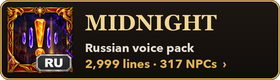
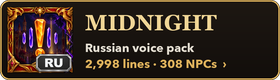
Русский пакет: актуальные цифры (2998 реплик, 308 NPC, ~18 ч)

Changed region(s): [[0.6, 0.725, 0.6571, 0.85], [0.4, 0.75, 0.4286, 0.85]]

diff --git a/curseforge/description-pack-ruRU-Midnight.md b/curseforge/description-pack-ruRU-Midnight.md
@@ -1,6 +1,6 @@
 # Chorus: Russian voice pack — Midnight
 
-Russian voice-over for **all Midnight quests**: 2,999 lines, 317 NPCs, about 13 hours of speech.
+Russian voice-over for **all Midnight quests**: 2,998 lines, 308 NPCs, about 18 hours of speech.
 
 **Requires [Chorus](https://www.curseforge.com/wow/addons/chorus)**: the core add-on that plays the audio. The CurseForge app installs it automatically.
 
@@ -14,7 +14,7 @@ Works with the **Russian game client** (ruRU). Key characters speak in voices cl
 
 # Chorus: русская озвучка Midnight
 
-Озвучка **всех заданий Midnight** на русском: 2999 реплик, 317 NPC, около 13 часов речи.
+Озвучка **всех заданий Midnight** на русском: 2998 реплик, 308 NPC, около 18 часов речи.
 
 **Нужен аддон [Chorus](https://www.curseforge.com/wow/addons/chorus)**: это ядро, которое проигрывает звук. Приложение CurseForge поставит его само.
 
